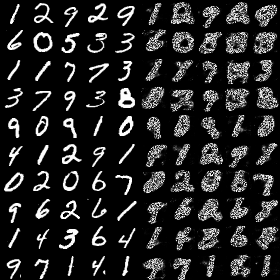
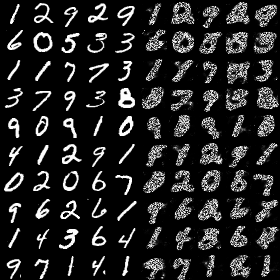
update lesson21-ae

diff --git a/lesson21-AE/main.py b/lesson21-AE/main.py
@@ -104,9 +104,8 @@ for epoch in range(num_epochs):
             reconstruction_loss = tf.nn.sigmoid_cross_entropy_with_logits(labels=x, logits=x_reconstruction_logits)
             reconstruction_loss = tf.reduce_sum(reconstruction_loss) / batch_size
 
-        gradients = tape.gradient(reconstruction_loss, model.trainable_variables)
-        for g in gradients:
-            tf.clip_by_norm(g, 15)
+        gradients = tape.gradient(reconstruction_loss, model.trainable_variables) 
+        gradients,_ = tf.clip_by_global_norm(gradients, 15)
         optimizer.apply_gradients(zip(gradients, model.trainable_variables))
 
         if (step + 1) % 50 == 0:

diff --git a/lesson21-AE/README.md b/lesson21-AE/README.md
@@ -1,0 +1,10 @@
+# Auto-Encoders
+
+
+Simple 2 layers Encoders and 2 layers Decoders to reconstruct MNIST images.
+
+# HowTo
+
+```
+python main.py
+```
